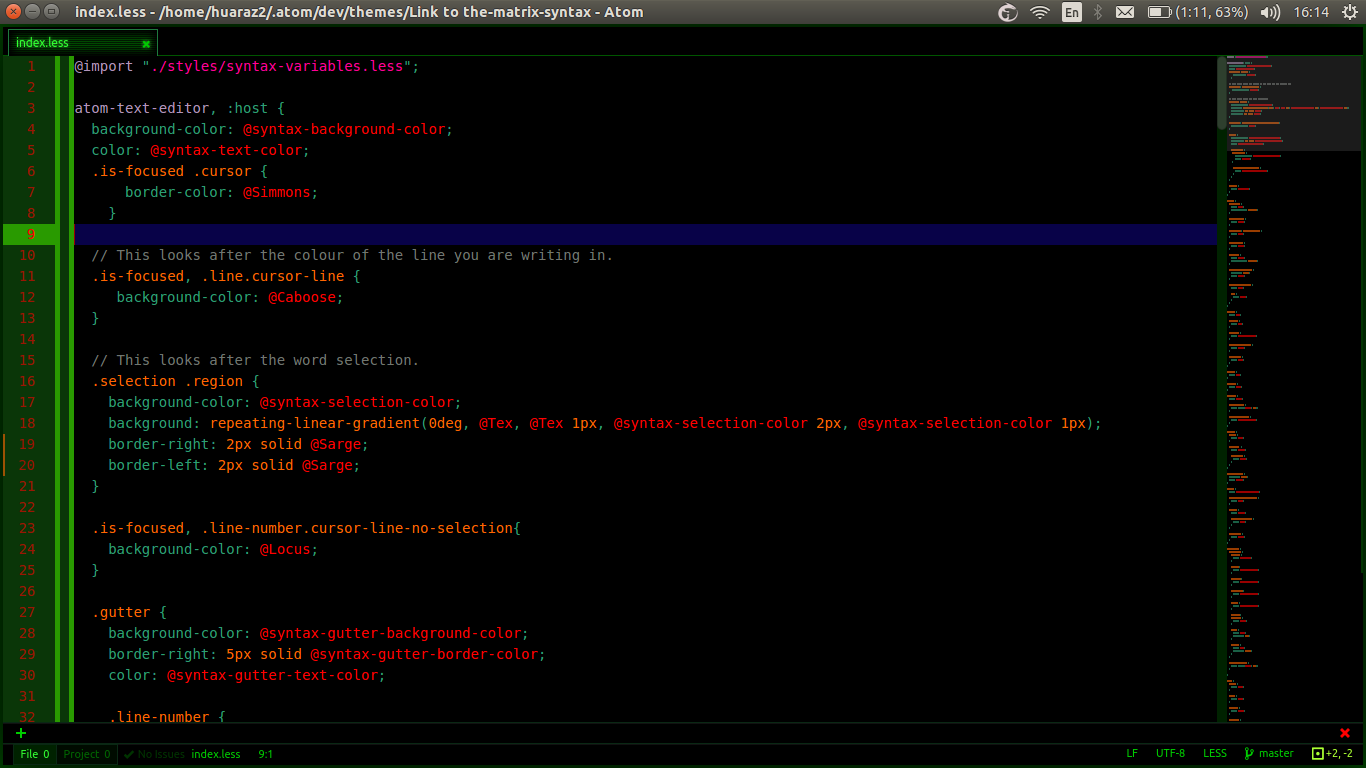
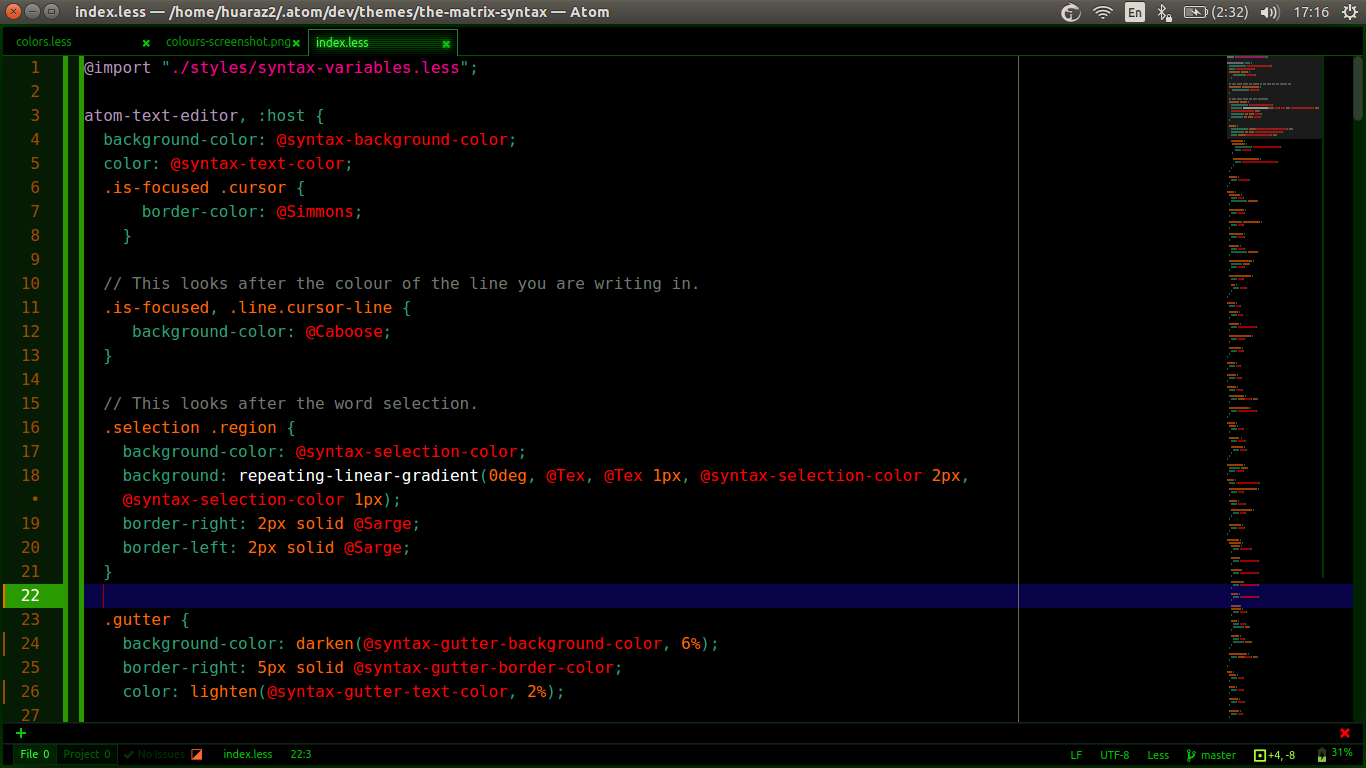
Updating the gutter colours so that it is more readable. :smiling_imp:

diff --git a/index.less b/index.less
@@ -19,15 +19,11 @@ atom-text-editor, :host {
 	  border-right: 2px solid @Sarge;
 	  border-left: 2px solid @Sarge;
   }
-
-  .is-focused, .line-number.cursor-line-no-selection{
-    background-color: @Locus;
-  }
-
+  
   .gutter {
-    background-color: @syntax-gutter-background-color;
+    background-color: darken(@syntax-gutter-background-color, 6%);
     border-right: 5px solid @syntax-gutter-border-color;
-    color: @syntax-gutter-text-color;
+    color: lighten(@syntax-gutter-text-color, 2%);
 
     .line-number {
      &.cursor-line {
@@ -36,7 +32,7 @@ atom-text-editor, :host {
      }
 
       &.cursor-line-no-selection {
-        color: @syntax-gutter-text-color;
+        color: @syntax-gutter-text-color-unslected;
       }
     }
   }

diff --git a/styles/syntax-variables.less b/styles/syntax-variables.less
@@ -21,7 +21,8 @@
 // Gutter colors
 @syntax-gutter-text-color: @Maine;
 @syntax-gutter-text-color-selected: @York;
-@syntax-gutter-text-color: @Sarge;
+@syntax-gutter-text-color: @Grif;
+@syntax-gutter-text-color-unslected: @Maine;
 @syntax-gutter-background-color: @Locus;
 @syntax-gutter-border-color: @Delta;
 @syntax-gutter-background-color-selected: @junior;

diff --git a/styles/colors.less b/styles/colors.less
@@ -2,8 +2,8 @@
 
 @Maine: #ffffff;
 @Washington: #707670;
-@Warthog: #746e5b;
-@dark-gray: #093a00;
+@Warthog: #6f664b;
+@dark-gray: #5c5c5c;
 @Tex: #000000;
 
 @Caboose: #080248;

diff --git a/README.md b/README.md
@@ -1,15 +1,19 @@
 
 # The Matrix - a syntax theme
 
-This theme is based off the matrix theme from cloudsagemath.  This is the first syntax theme that I have made and I now want to share it with the rest of the atom users.
+This theme is based off the matrix theme from cloudsagemath.  This is the first syntax theme that
+I have made and I now want to share it with the rest of the atom users.
 
 
-As you can see from the picture below I am a fan of the web show RvB and have labeled my colours accordingly.  
-![](https://raw.githubusercontent.com/Huaraz2/the-matrix-syntax/master/res/colours-screenshot.png)
+As you can see from the picture below I am a fan of the web show RvB and have labeled my colours
+accordingly.  
+![I said SHOTGUN](https://raw.githubusercontent.com/Huaraz2/the-matrix-syntax/master/res/colours-screenshot.png)
 
-Below is what a typical screen would look like with me his syntax theme enabled.  
-![](https://raw.githubusercontent.com/Huaraz2/the-matrix-syntax/master/res/example-page.png)
+Below is what a typical screen would look like with me this syntax theme enabled.  
+![standard page](https://raw.githubusercontent.com/Huaraz2/the-matrix-syntax/master/res/example-page.png)
 
-As this is the first theme that I have done, I welcome any changes that you think would make the theme cooler/more efficient.  Simply fork the repository and submit a pull request for evaluation. :smiling_imp:
+As this is the first theme that I have done, I welcome any changes that you think would make the
+theme cooler/more efficient.  Simply fork the repository and submit a pull request for
+evaluation. :smiling_imp:
 
 Happy Coding! :shipit: :+1:
